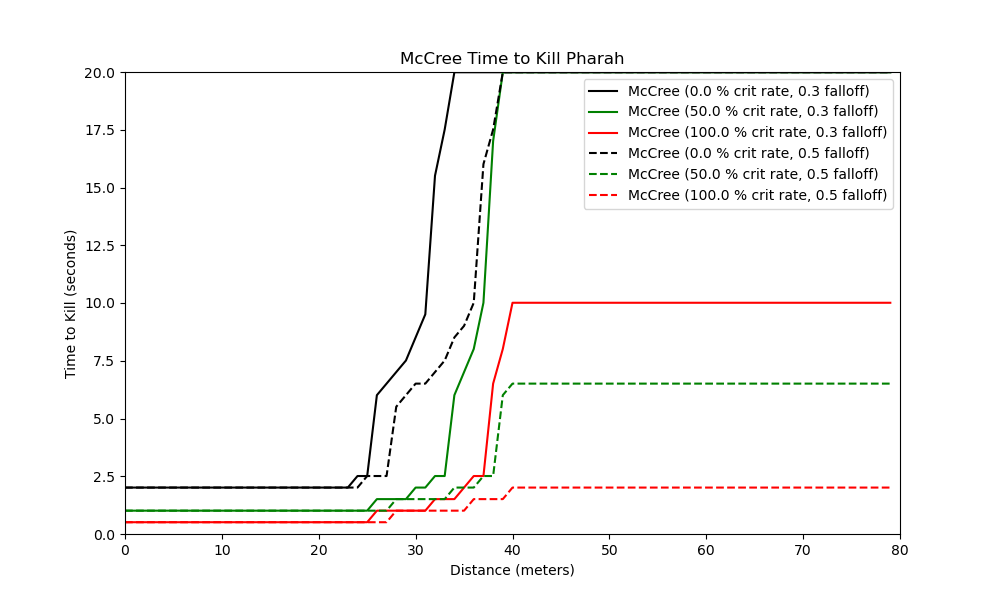
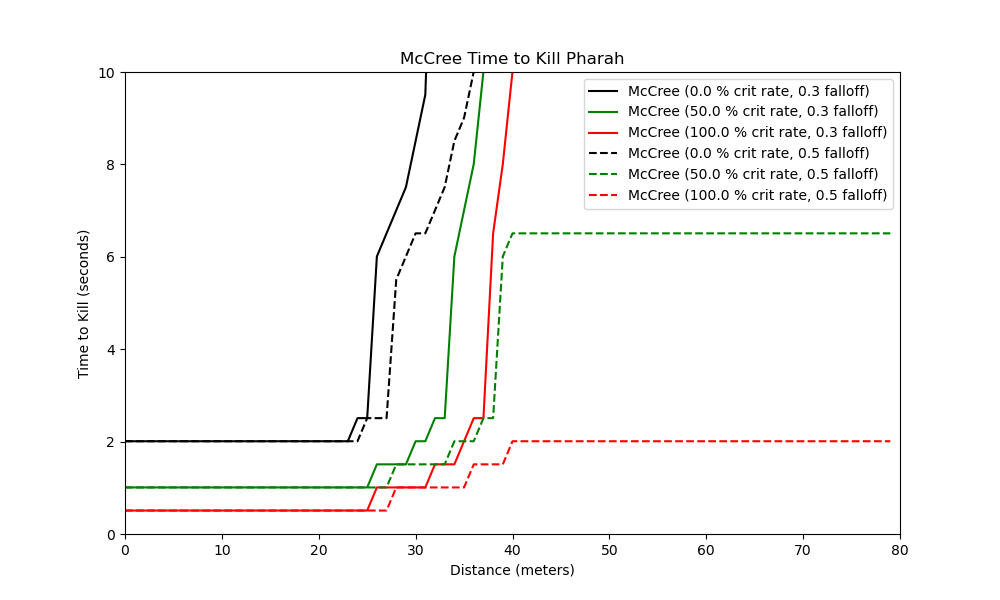
change screen shots

diff --git a/pharmacy/explore_with_reload.py b/pharmacy/explore_with_reload.py
@@ -107,7 +107,7 @@ def true_ttk(hero_stats):
 
     plt.legend()
     plt.xlim(0, 80)
-    plt.ylim(0, 20)
+    plt.ylim(0, 10)
     plt.title('{} Time to Kill Pharah'.format(hero_stats[6]))
     plt.xlabel('Distance (meters)')
     plt.ylabel('Time to Kill (seconds)')
